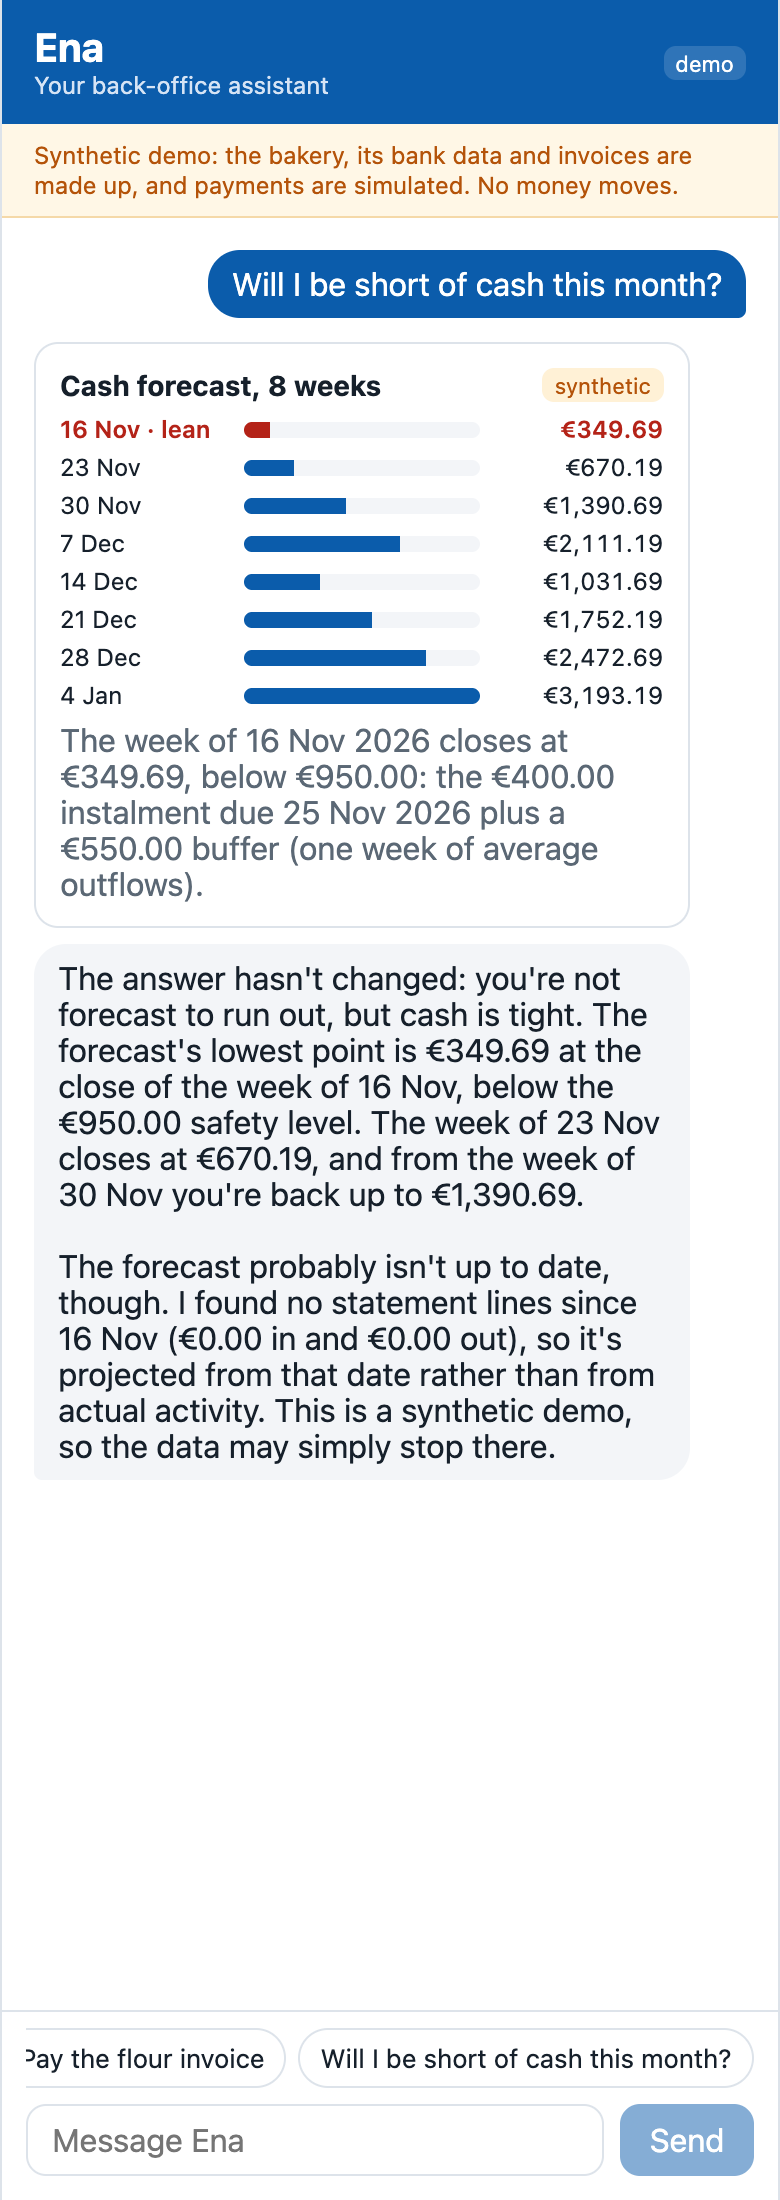
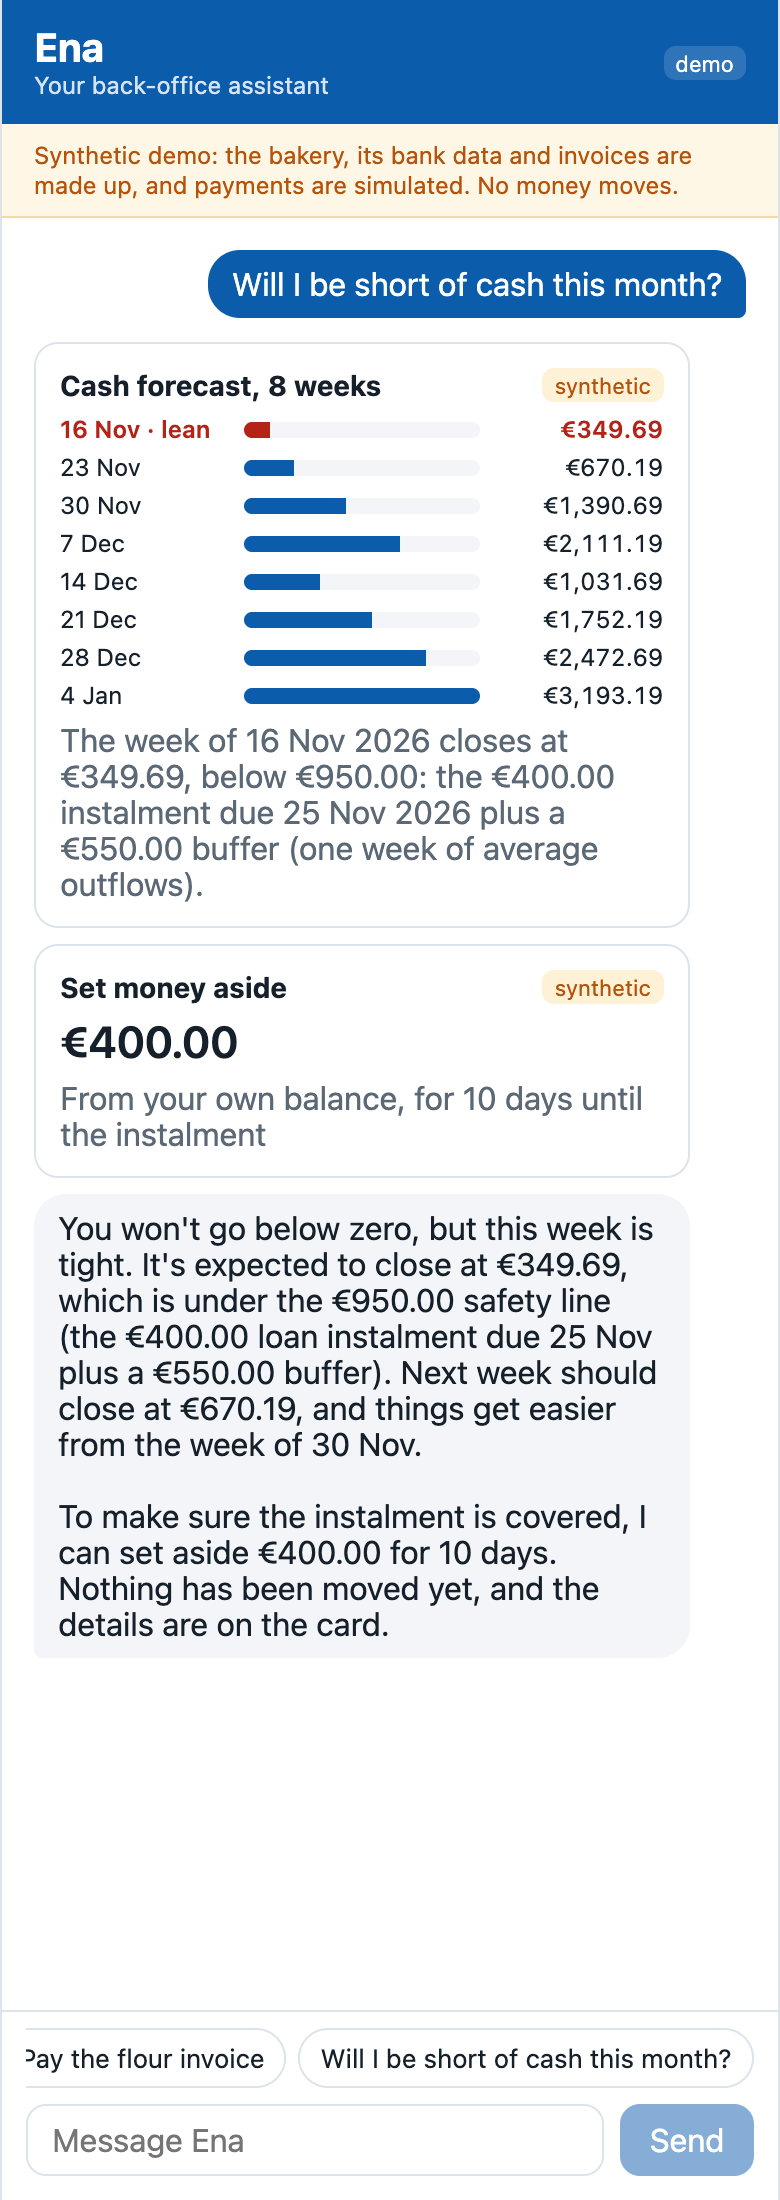
docs: retake the chat page screenshots with the agent told the day
Taken with the real model after the prompt fix: the replies date from
16 November and no longer call the data stale or the flour invoice
past due.

Refs #47

Changed region(s): [[0.0615, 0.4327, 0.8615, 0.7418]]

diff --git a/docs/mockups/README.md b/docs/mockups/README.md
@@ -14,7 +14,7 @@ The owner's side of Ena is one chat at phone width; approvals, receipts, the for
 
 ## Screenshots of the running app
 
-The same screens in the chat page as it runs today (`uv run ena-serve` with the synthetic month as of 16 November, and [web/](../../web/)), at 390 px phone width, with Ena's replies from the model. Every card comes from Ena's tools, the gate and the stand-in bank; the approval's receipt is a simulated payment, and no money moved. Taken on 28 November 2026, in one chat session, the flour invoice approved last. The model's replies still mix up the demo's day with the real date: they call the data stale since 16 November and the flour invoice past due, and the reserve reply carries the page's "unconfirmed" note; retake them once the agent is told the business day.
+The same screens in the chat page as it runs today (`uv run ena-serve` with the synthetic month as of 16 November, and [web/](../../web/)), at 390 px phone width, with Ena's replies from the model. Every card comes from Ena's tools, the gate and the stand-in bank; the approval's receipt is a simulated payment, and no money moved. Taken on 28 November 2026, in one chat session with the store in memory, the flour invoice approved last, with the agent told the business's day. The receipt's time is still the real clock's.
 
 | Screenshot | Day of the month | What it shows |
 |---|---|---|
